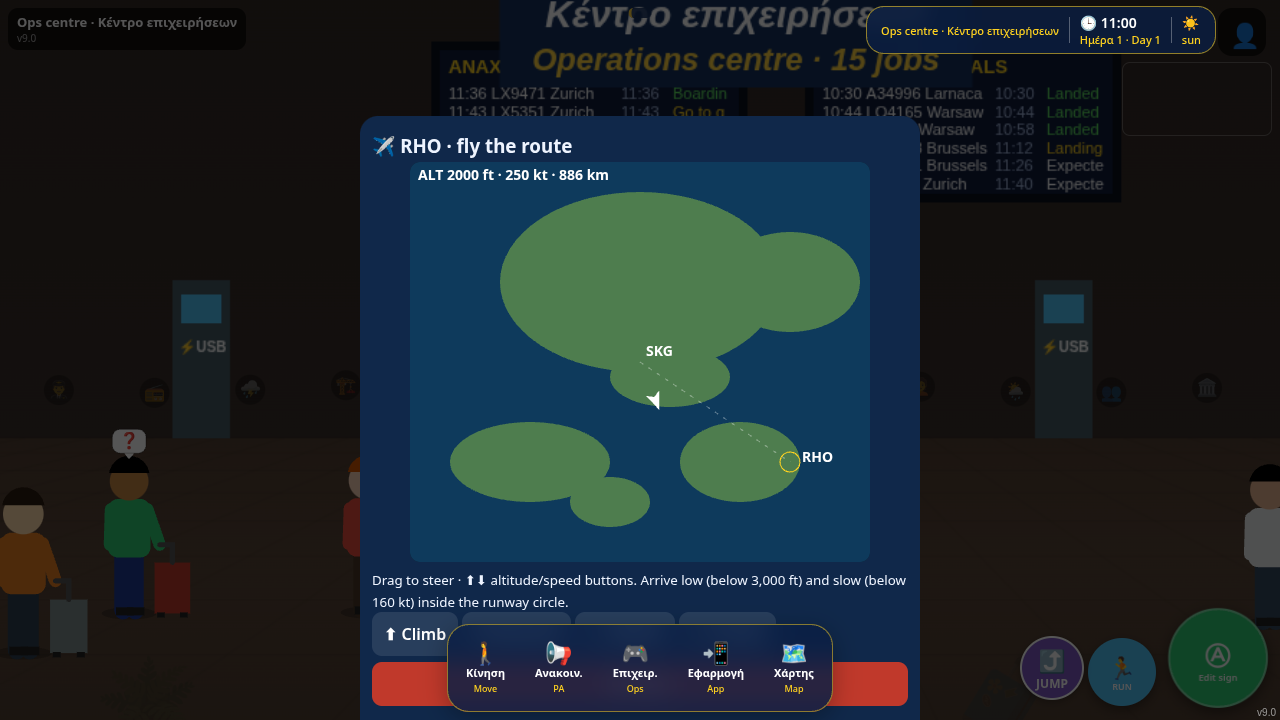
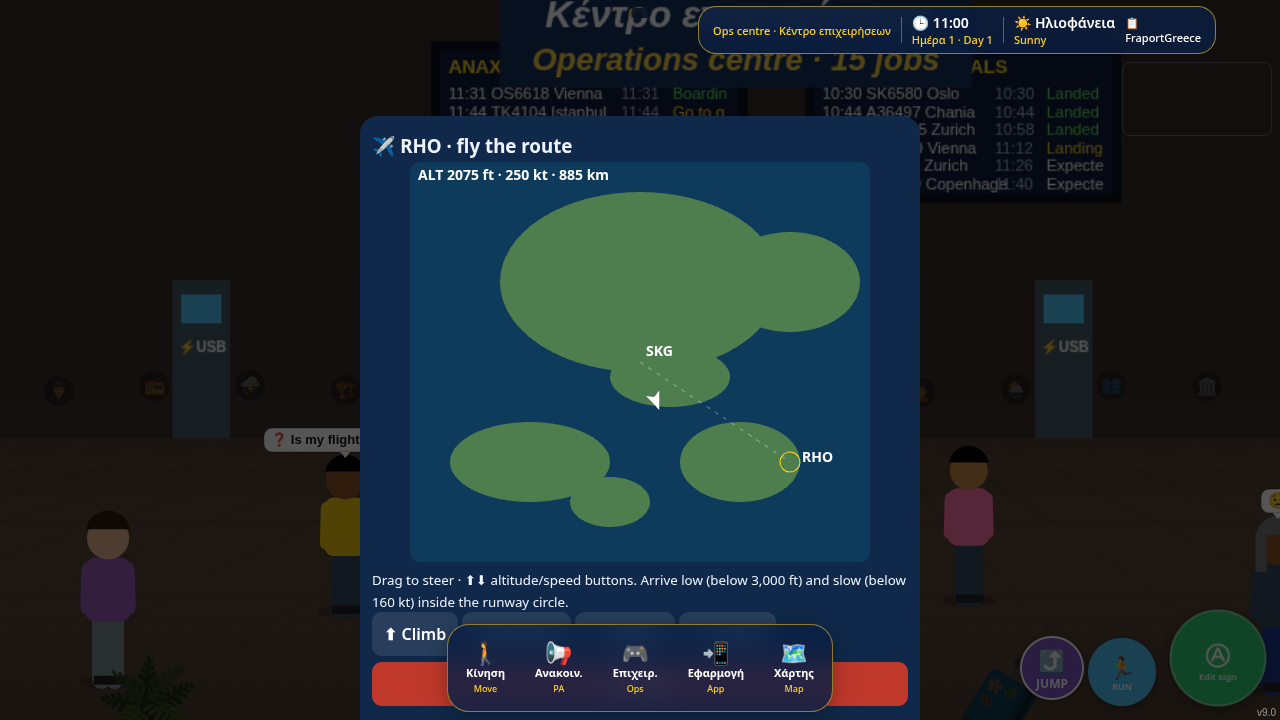
v9.0b1: scope prompt on every announcement, synced all-terminal broadcast, drills & evacuations, UI cleanup

diff --git a/index.html b/index.html
@@ -4229,7 +4229,7 @@ function chime15(tid){const a=ac15();if(!a)return 0;env15(tid);const t=a.current
 function hum15(ms){const a=PA15.ac;if(!a)return;const n=a.createBufferSource(),b=a.createBuffer(1,a.sampleRate,a.sampleRate),d=b.getChannelData(0);for(let i=0;i<d.length;i++)d[i]=(Math.random()*2-1)*.012;n.buffer=b;n.loop=true;const g=a.createGain();g.gain.value=1;n.connect(g);g.connect(PA15.inp);n.start();setTimeout(()=>{g.gain.setTargetAtTime(0,a.currentTime,.4);setTimeout(()=>n.stop(),1500)},ms)}
 function voice15(l){const V=speechSynthesis.getVoices();return V.find(v=>v.lang.replace('_','-').toLowerCase().startsWith(l))||null}
 function say15(txt,lang,tid){return new Promise(res=>{try{if(!window.speechSynthesis)return res();const u=new SpeechSynthesisUtterance(txt);u.lang=lang;const v=voice15(lang.slice(0,2));if(v)u.voice=v;u.rate=.9;u.pitch=.92;u.volume=lvl15(tid).v*(staff15()?.5:1);let done=0;const fin=()=>{if(!done){done=1;res()}};u.onend=fin;u.onerror=fin;setTimeout(fin,1500+txt.length*110);hum15(txt.length*75);speechSynthesis.speak(u)}catch(e){res()}})}
-function sub15(tn,gr,en,note){let b=$('#pa13');if(!b){b=document.createElement('div');b.id='pa13';b.style.cssText='position:fixed;left:50%;bottom:120px;transform:translateX(-50%);max-width:90vw;background:#000c;color:#fff;padding:8px 14px;border-radius:10px;font:600 15px system-ui;z-index:47;text-align:center;pointer-events:none';document.body.appendChild(b)}b.innerHTML=`🔊 <b>${tn}</b>${en?'<br>🇬🇧 '+en:''}${gr?'<br>🇬🇷 '+gr:''}${note?'<br><small>'+note+'</small>':''}`;b.style.display='block';clearTimeout(J12.pt);J12.pt=setTimeout(()=>b.style.display='none',16000)}
+function sub15(tn,gr,en,note){let b=$('#pa13');if(!b){b=document.createElement('div');b.id='pa13';b.style.cssText='position:fixed;left:50%;bottom:120px;transform:translateX(-50%);max-width:90vw;background:#000c;color:#fff;padding:8px 14px;border-radius:10px;font:600 15px system-ui;z-index:47;text-align:center;pointer-events:none';document.body.appendChild(b)}b.innerHTML=`🔊 <b>${tn}</b>${gr?'<br>🇬🇷 '+gr:''}${en?'<br>🇬🇧 '+en:''}${note?'<br><small>'+note+'</small>':''}`;b.style.display='block';clearTimeout(J12.pt);J12.pt=setTimeout(()=>b.style.display='none',16000)}
 /* full announcement: chime → English (recording or TTS) → Greek TTS */
 async function annc15(c,en,gr,buf){const tid=c.tid;const hasEl=!!voice15('el');sub15(c.tn,gr,en,hasEl?'':'(no Greek voice on this device · Greek shown as subtitles)');try{speechSynthesis.cancel()}catch(e){}
  const ms=chime15(tid);await new Promise(r=>setTimeout(r,ms||400));env15(tid);
@@ -5202,5 +5202,106 @@ setInterval(()=>{try{sweep25();bar25();if(!W3.on&&$('#ui25mm'))$('#ui25mm').styl
 {let t=0;const _u=w3Update;w3Update=function(dt){const r=_u.apply(this,arguments);t-=dt||0;if(t<=0){t=.15;try{mm25()}catch(e){}}return r}}
 // smooth area/modal transitions (off on e-ink)
 (function(){const s=document.createElement('style');s.textContent='body:not(.eink) #modal .box,body:not(.eink) #modal>div{animation:ui25in .22s ease-out}@keyframes ui25in{from{opacity:0;transform:translateY(10px) scale(.98)}to{opacity:1;transform:none}}';document.head.appendChild(s)})();
+
+/* v9.0 Part B1: scope prompt on EVERY announcement · synced all-terminals broadcast · drills & evacuations · UI cleanup */
+// ---------- UI cleanup ----------
+(function(){const s=document.createElement('style');s.textContent=`.wtop .wtl{display:none!important}#wMap.ui26h,.ui26h{display:none!important}
+#ui25bar .tk{max-width:260px;overflow:hidden;text-overflow:ellipsis;font-size:11px;color:#fff;font-weight:500}#ui25bar .tk b{color:#ffd21f}
+.ui25fly button .l26{display:block!important;font:600 10px system-ui!important;margin-top:3px;color:#ffd21f!important;white-space:nowrap}.ui25fly button .l26 i{display:block!important;font-style:normal;color:#fff!important;font-size:9px!important}
+body.eink .ui25fly button .l26,body.eink .ui25fly button .l26 i{color:#000!important}
+#sc26{position:fixed;inset:0;z-index:300;background:rgba(10,31,68,.55);display:flex;align-items:center;justify-content:center}
+#sc26 .bx{background:#fff;border-radius:22px;padding:18px;max-width:420px;width:92vw;border:3px solid #ffd21f;font:600 14px system-ui;color:#0a1f44;text-align:center}
+#sc26 button{display:block;width:100%;min-height:62px;margin:8px 0;border-radius:16px;border:2px solid #0a1f44;font:700 16px system-ui;background:#0a1f44;color:#fff}#sc26 button small{display:block;font-weight:500;color:#ffd21f}
+#sc26 button.t{background:#fff;color:#0a1f44}#sc26 button.t small{color:#8a6d00}#sc26 button.x{min-height:44px;background:#eceff1;color:#333;border-color:#ccc}
+body.eink #sc26{background:rgba(255,255,255,.6)}body.eink #sc26 .bx,body.eink #sc26 button{border:3px solid #000;color:#000;background:#fff}body.eink #sc26 button small{color:#000}
+#ev26{position:fixed;inset:0;pointer-events:none;z-index:40;box-shadow:inset 0 0 120px 30px rgba(229,57,53,.0);transition:box-shadow .3s}#ev26.on{animation:ev26 .8s infinite}@keyframes ev26{50%{box-shadow:inset 0 0 140px 40px rgba(229,57,53,.75)}}
+body.eink #ev26.on{animation:none;box-shadow:inset 0 0 0 12px #000}
+#evp26{position:fixed;left:50%;top:84px;transform:translateX(-50%);z-index:58;background:#0b6b2f;color:#fff;border:3px solid #fff;border-radius:16px;padding:8px 14px;font:700 14px system-ui;text-align:center;pointer-events:auto}#evp26 .r{background:#c62828}#evp26 button{min-height:48px;margin:6px 4px 0;border-radius:12px;border:0;padding:0 14px;font:700 13px system-ui}
+body.eink #evp26{background:#fff;color:#000;border:4px solid #000}`;document.head.appendChild(s)})();
+const LB26={w6ride:['Βόλτα','Ride'],w6fp:['Θέα','View'],bWalk:['Περπάτημα','Walk'],bSpeed:['Ταχύτητα','Speed'],w6sh:['Βάρδια','Shift'],pa16:['Αίθουσα PA','PA room'],bAnn:['Ανακοινώσεις','Auto PA'],w6rad:['Ραδιόφωνο','Radio'],bSnd:['Ήχος','Sound'],ops23:['Κέντρο','Ops'],w7hub:['Παιχνίδια','Fun'],hb12:['Εργαλεία','Tools'],brd10:['Πίνακες','Boards'],tm11:['Ώρα','Time'],spt23:['Φωτογραφία','Spotting'],ph17:['SKG app','SKG app'],wPhone:['Τηλέφωνο','Phone'],w6set:['Ρυθμίσεις','Settings'],bInk:['E-ink','E-ink'],w3b:['2D/3D','2D/3D'],w7ft:['Ταξίδι','Travel'],map25:['Χάρτης','Map'],me26:['Προφίλ','Profile'],evb26:['Εκκένωση','Evacuation'],bc26:['Όλοι PA','Broadcast']};
+function lab26(){document.querySelectorAll('.ui25fly button').forEach(b=>{const id=b.id;const L=LB26[id];if(!L||b.querySelector('.l26'))return;const s=document.createElement('span');s.className='l26';s.innerHTML=L[0]+'<i>'+L[1]+'</i>';b.appendChild(s)})}
+function bar26(){const b=$('#ui25bar');if(!b)return;
+ // weather in Greek + English
+ const k=(G.wx&&G.wx.k)||'sun',w=(typeof WX!=='undefined'&&WX[k])||['🌤',k,k];
+ // fold old info card + task pill into the bar
+ const inf=($('#wInfo')||{}).textContent||'';let task='';document.querySelectorAll('body>*,#walk>*,#walk>*>*').forEach(e=>{if(e.closest('#ui25bar,#ui25dock,.ui25fly,#evp26,#sc26,#modal,.wtop,#walk>.wbr'))return;const s=getComputedStyle(e);if(s.position!=='fixed'&&s.position!=='absolute')return;const r=e.getBoundingClientRect();if(!r.width||r.y>100||r.height>70||r.width>innerWidth*.6)return;const cx=r.x+r.width/2;if(cx<innerWidth*.3||cx>innerWidth*.7)return;const t=(e.textContent||'').trim();if(!t||e.querySelector('canvas'))return;if(!task||t.length>task.length)task=t;e.classList.add('ui26h')});
+ if(task)b.dataset.task=task;const tk=b.dataset.task||'';
+ let x=b.querySelector('.tk');if(!x){x=document.createElement('div');x.className='tk';b.appendChild(x)}const h=`<b>📋 ${inf.replace(/\s+/g,' ').slice(0,40)}</b><br>${tk.slice(0,70)}`;if(x._h!==h){x.innerHTML=h;x._h=h}
+ const wd=b.children[4];if(wd&&!wd.dataset.w26||wd&&wd.dataset.w26!==k){wd.dataset.w26=k;wd.innerHTML=`<div class="gr">${w[0]} ${w[2]}</div><div class="en">${w[1]}</div>`}
+ const mp=$('#wMap');if(mp)mp.classList.toggle('ui26h',!!W3.on)}
+// 👤 into dock (App) + new buttons
+function dock26(){const f=$('#ui25f_app');if(f&&!$('#me26')){const me=[...document.querySelectorAll('.wtop button')].find(b=>b.textContent.trim()==='👤');if(me){me.id='me26';f.appendChild(me)}}
+ const o=$('#ui25f_ops');if(o&&!$('#evb26')){const b=document.createElement('button');b.id='evb26';b.textContent='🚨';b.onclick=()=>{ui25tog(null);evMenu26()};o.appendChild(b)}
+ const p=$('#ui25f_pa');if(p&&!$('#bc26')){const b=document.createElement('button');b.id='bc26';b.textContent='📡';b.onclick=()=>{ui25tog(null);pa16Open26()};p.appendChild(b)}lab26()}
+function pa16Open26(){const b=$('#pa16');if(b)b.click();else if(typeof paPick16==='function')paPick16()}
+setInterval(()=>{try{dock26();bar26()}catch(e){}},700);
+// ---------- scope prompt (asked EVERY time, no default) ----------
+function tname26(t){return t===8?'Terminal 1A':t===0||t==null?'Makedonia':'Terminal '+t}
+function allT26(){return [0,...TERMS.map(T=>T.id),...XT22.map(X=>X.id)].filter((v,i,a)=>a.indexOf(v)===i)}
+function scope26(tid,what){return new Promise(res=>{const o=$('#sc26');if(o)o.remove();const d=document.createElement('div');d.id='sc26';
+ d.innerHTML=`<div class="bx"><div>📢 ${what||'Ανακοίνωση · Announcement'}</div><div style="font-weight:500;margin:4px 0 6px">Πού να μεταδοθεί; · Where should it play?</div>
+ <button id="sc26a">📡 Όλοι οι τερματικοί<small>All terminals · ${allT26().length} terminals, in sync</small></button>
+ <button class="t" id="sc26t">📍 Μόνο αυτός ο τερματικός<small>Only this terminal · ${tname26(tid)}</small></button>
+ <button class="x" id="sc26x">Ακύρωση · Cancel</button></div>`;document.body.appendChild(d);
+ const fin=v=>{d.remove();res(v)};$('#sc26a').onclick=()=>{unl24();fin('all')};$('#sc26t').onclick=()=>{unl24();fin('one')};$('#sc26x').onclick=()=>fin(null)})}
+// wrap the announcement player: ask scope, then play once on ONE shared clock for every chosen terminal
+const BC26={on:0};
+{const _a26=annc22;annc22=async function(c,en,gr,buf,note,src){const tid=c&&c.tid!=null?c.tid:curT16();const sc=await scope26(tid,(src&&src.alarm)?'🚨 Συναγερμός · Alarm':'Ανακοίνωση · Announcement');
+ if(!sc){plog22({step:'Cancelled (no scope chosen)',tr:en,gr,ok:false});return}
+ const list=sc==='all'?allT26():[tid];const t0=performance.now(),wall=new Date();BC26.on=1;BC26.list=list;
+ plog22({step:sc==='all'?'📡 ALL terminals · synced start':'📍 Only '+tname26(tid),tr:en,gr,note:'Terminals: '+list.map(tname26).join(', ')+' · shared clock start '+wall.toTimeString().slice(0,8)+'.'+String(wall.getMilliseconds()).padStart(3,'0'),ok:true});
+ if(sc==='all')toast('📡 Broadcasting in all '+list.length+' terminals · same audio, same clock');
+ try{await _a26.call(this,c,en,gr,buf,note,src)}finally{BC26.on=0;const ms=Math.round(performance.now()-t0);plog22({step:sc==='all'?'📡 ALL terminals · synced end':'📍 end',note:list.length+' terminal(s) started together and ended together after '+(ms/1000).toFixed(1)+'s (one shared audio buffer/clock)',ok:true})}}}
+annc18=function(c,en,gr,buf,note){annc22(c,en,gr,buf,note);return Promise.resolve()};
+// ---------- drills & evacuations ----------
+const EV26={on:0,crowds:[],fx:[]};
+{const _c26=crowd7;crowd7=function(par,list,seated){const r=_c26.apply(this,arguments);if(r&&r.b){const o=list.map(p=>p.slice());r.orig=o;r.par=par;EV26.crowds.push(r)}return r}}
+function tidAt26(x){const X=[...XT22,...TERMS].find(T=>T.x0!=null&&x>=T.x0-5&&x<=T.x1+5);return X?X.id:0}
+function siren26(on){const a=ac15();if(!a)return;if(!on){if(EV26.sn){try{EV26.sn.o.stop();EV26.sn.l.stop()}catch(e){}EV26.sn=null}return}if(EV26.sn)return;const o=a.createOscillator(),l=a.createOscillator(),lg=a.createGain(),g=a.createGain();o.type='sawtooth';o.frequency.value=700;l.frequency.value=.45;lg.gain.value=260;l.connect(lg);lg.connect(o.frequency);g.gain.value=G.sound===false?0:.07;const f=a.createBiquadFilter();f.type='lowpass';f.frequency.value=2200;o.connect(f);f.connect(g);g.connect(a.destination);o.start();l.start();EV26.sn={o,l}}
+function evTex26(){if(EV26.tx)return EV26.tx;EV26.tx=ctex(512,128,g=>{g.fillStyle='#0b8f3a';g.fillRect(0,0,512,128);g.fillStyle='#fff';g.fillRect(14,22,70,84);g.fillStyle='#0b8f3a';g.fillRect(36,40,26,66);g.fillStyle='#fff';g.font='bold 40px system-ui';g.textAlign='left';g.fillText('ΕΞΟΔΟΣ ➜',100,62);g.font='bold 30px system-ui';g.fillText('EMERGENCY EXIT',100,104)});EV26.ar=ctex(128,128,g=>{g.fillStyle='#0b8f3a';g.fillRect(0,0,128,128);g.fillStyle='#fff';g.beginPath();g.moveTo(64,10);g.lineTo(118,70);g.lineTo(84,70);g.lineTo(84,118);g.lineTo(44,118);g.lineTo(44,70);g.lineTo(10,70);g.fill()});return EV26.tx}
+function evFx3D26(list){if(!W3.on||typeof SCN==='undefined'||!SCN)return;evTex26();const T3_=T3;const grp=new T3_.Group();grp.name='ev26';
+ const boxes=[];const sm=new T3_.MeshBasicMaterial({map:EV26.tx,toneMapped:false});const am=new T3_.MeshBasicMaterial({map:EV26.ar,toneMapped:false,transparent:true,opacity:.9});const red=new T3_.MeshBasicMaterial({color:'#ff1744',toneMapped:false});EV26.red=red;
+ const sg=new T3_.PlaneGeometry(3.2,.8),ag=new T3_.PlaneGeometry(1.6,1.6),bg=new T3_.BoxGeometry(.5,.5,.5);EV26.geo=[sg,ag,bg];EV26.mat=[sm,am,red];
+ const B=[...XT22,...TERMS].filter(T=>list.includes(T.id)&&T.x0!=null);let ns=0,na=0,nb=0;const S_=[],A_=[],R_=[];
+ B.forEach(T=>{const z0=T.z0!=null?T.z0:-40,z1=T.z1!=null?T.z1:60;for(let x=T.x0+10;x<T.x1-5;x+=24){S_.push([x,4.2,z1-1.2,Math.PI]);R_.push([x,7.5,(z0+z1)/2]);for(let z=z0+10;z<z1-6;z+=12)A_.push([x,.06,z])}});
+ if(list.includes(0)){for(let x=-60;x<=200;x+=24){S_.push([x,4.2,58,Math.PI]);R_.push([x,7.5,20]);for(let z=-20;z<50;z+=12)A_.push([x,.06,z])}}
+ const M=new T3_.Matrix4(),q=new T3_.Quaternion(),e=new T3_.Euler(),P=new T3_.Vector3(),Sc=new T3_.Vector3(1,1,1);
+ const im=(g,m,L,rx)=>{const I=new T3_.InstancedMesh(g,m,Math.max(1,L.length));L.forEach((p,i)=>{q.setFromEuler(e.set(rx||0,p[3]||0,0));M.compose(P.set(p[0],p[1],p[2]),q,Sc);I.setMatrixAt(i,M)});I.count=L.length;I.userData.ds23=1;I.frustumCulled=false;grp.add(I);return I};
+ im(sg,sm,S_);im(ag,am,A_,-Math.PI/2);im(bg,red,R_);SCN.add(grp);EV26.g3=grp}
+function evFxOff26(){if(EV26.g3){SCN.remove(EV26.g3);EV26.g3=null;(EV26.geo||[]).forEach(g=>g.dispose());(EV26.mat||[]).forEach(m=>m.dispose());EV26.geo=EV26.mat=null}}
+const EVTXT26={drill:['Προσοχή παρακαλώ. Αυτή είναι άσκηση εκκένωσης. Παρακαλούμε αφήστε τις αποσκευές σας, ακολουθήστε τις πράσινες πινακίδες εξόδου και τις οδηγίες του προσωπικού προς το σημείο συγκέντρωσης.','Attention please. This is an evacuation drill. Please leave your luggage, follow the green exit signs and the staff instructions to the assembly point.'],
+ real:['Προσοχή, προσοχή. Εκκένωση έκτακτης ανάγκης. Παρακαλούμε απομακρυνθείτε αμέσως από τον τερματικό σταθμό από τις πλησιέστερες εξόδους κινδύνου. Μη χρησιμοποιείτε τους ανελκυστήρες.','Attention, attention. Emergency evacuation. Please leave the terminal immediately by the nearest emergency exit. Do not use the lifts.'],
+ clear:['Λήξη συναγερμού. Μπορείτε να επιστρέψετε με ασφάλεια στον τερματικό σταθμό. Ευχαριστούμε για τη συνεργασία σας.','All clear. You may now safely return to the terminal. Thank you for your cooperation.']};
+// alarm PA: Greek FIRST, then English
+async function alarmPA26(kind,tid,scope){const [gr,en]=EVTXT26[kind];sub15&&sub15(tname26(tid),gr,en,'🚨 '+(scope==='all'?'ALL terminals':tname26(tid)));const t0=new Date();plog22({step:'🚨 '+kind.toUpperCase()+' alarm · '+(scope==='all'?'📡 ALL terminals (synced)':'📍 '+tname26(tid)),tr:en,gr,note:'Greek first, then English · start '+t0.toTimeString().slice(0,8),ok:true});
+ unlock17();await acUp22();chime15(tid);await new Promise(r=>setTimeout(r,900));const v=await grSpeak24(gr,tid);await new Promise(r=>setTimeout(r,400));const r=await say22(en,'en-GB',1);plog22({step:'🚨 alarm PA done',note:'GR: '+(v||'failed')+' · EN: '+(r.ok?'ok':'failed'),ok:!!v})}
+function evMenu26(){MD4('🚨 Άσκηση / Εκκένωση · Drill / Evacuation',`<p>Choose the type. You'll then be asked <b>All terminals</b> or <b>Only this terminal</b>.</p><div class="ft7"><button class="y" onclick="close_();evStart26('drill')">🟡 Άσκηση · DRILL</button><button class="r" onclick="close_();evStart26('real')">🔴 Πραγματική · REAL</button>${EV26.on?'<button class="ghost" onclick="close_();evClear26()">✅ Λήξη · All clear</button>':''}</div>`)}
+async function evStart26(kind){const A_=WA[W.area]||{};const tid=W3.on?curT16():(A_.tn||A_.tid||(/^t7/.test(W.area)?7:/^t8/.test(W.area)?8:0));const sc=await scope26(tid,'🚨 '+(kind==='real'?'Εκκένωση · REAL evacuation':'Άσκηση · Evacuation DRILL'));if(!sc)return toast('Cancelled');
+ const list=sc==='all'?allT26():[tid];Object.assign(EV26,{on:1,kind,list,sc,t:0,out:0,tot:0,tid});
+ $('#ev26')||document.body.insertAdjacentHTML('beforeend','<div id="ev26"></div>');$('#ev26').classList.add('on');siren26(1);evFx3D26(list);
+ // 3D crowds + walking NPCs head for the exits / assembly point (landside, +z)
+ EV26.crowds.forEach(c=>{const t=tidAt26(c.orig[0]?c.orig[0][0]:0);c.ev=list.includes(t);if(!c.ev)return;let zm=-1e9;c.orig.forEach(p=>zm=Math.max(zm,p[2]));c.az=zm+28;c.pos=c.orig.map(p=>p.slice());EV26.tot+=c.orig.length});
+ (W3.npcs||[]).forEach(n=>{if(list.includes(tidAt26(n.x||0))){n.ev26={tx:n.tx,tz:n.tz};n.tx=(n.x||0)+rnd(-6,6);n.tz=(n.z||0)+80;EV26.tot++}});
+ EV26.tot=Math.max(EV26.tot,list.length*180);evPanel26();cnt4('evac_'+kind);alarmPA26(kind,tid,sc)}
+function evPanel26(){let p=$('#evp26');if(!p){p=document.createElement('div');p.id='evp26';document.body.appendChild(p)}if(!EV26.on){p.remove();return}const pc=Math.min(100,Math.round(EV26.out/EV26.tot*100));
+ p.innerHTML=`<div class="${EV26.kind==='real'?'r':''}" style="border-radius:10px;padding:2px 8px">🚨 ${EV26.kind==='real'?'ΕΚΚΕΝΩΣΗ · EVACUATION':'ΑΣΚΗΣΗ · DRILL'} · ${EV26.sc==='all'?'📡 Όλοι · All terminals':'📍 '+tname26(EV26.tid)}</div>🚪 Εκκενώθηκαν · Evacuated ${pc}% · ⏱ ${Math.round(EV26.t)}s<br>${W3.on?'':'<button onclick="evGuide26()">🙋 Καθοδήγηση · Guide passengers</button>'}<button onclick="evClear26()" ${pc<100&&EV26.kind==='real'?'disabled title="Wait until everyone is out"':''}>✅ Λήξη · All clear</button>`}
+function evGuide26(){EV26.out=Math.min(EV26.tot,EV26.out+EV26.tot*.12);toast('🙋 ➜ ΕΞΟΔΟΣ / EXIT · passengers follow you to the assembly point');evPanel26()}
+function evTick26(dt){if(!EV26.on)return;EV26.t+=dt;EV26.ft=(EV26.ft||0)-dt;if(EV26.red)EV26.red.color.set(Math.floor(EV26.t*2.5)%2?'#ff1744':'#4a0000');
+ if(EV26.ft<=0){EV26.ft=.12;let out=0;const M=new T3.Matrix4(),q=new T3.Quaternion(),e=new T3.Euler(),P=new T3.Vector3(),S=new T3.Vector3(1,1,1);
+  EV26.crowds.forEach(c=>{if(!c.ev||!c.pos)return;c.pos.forEach((p,i)=>{const dz=c.az-p[2];if(dz>.5){p[2]+=Math.min(dz,(3.2+(i%5)*.4)*.12*(EV26.kind==='real'?1.3:1));p[3]=0}if(dz<28)out++;q.setFromEuler(e.set(0,p[3],0));M.compose(P.set(p[0],0,p[2]),q,S);c.b.setMatrixAt(i,M);M.compose(P.set(p[0],1.72,p[2]),q,S);c.h.setMatrixAt(i,M)});c.b.instanceMatrix.needsUpdate=c.h.instanceMatrix.needsUpdate=true});
+  if(W3.on)EV26.out=Math.max(EV26.out,out+Math.min(EV26.t/40,1)*(EV26.tot-EV26.crowds.reduce((n,c)=>n+(c.ev?c.orig.length:0),0)));else EV26.out=Math.min(EV26.tot,EV26.out+EV26.tot*dt*.012);
+  evPanel26();if(EV26.kind==='drill'&&EV26.out>=EV26.tot&&!EV26.done){EV26.done=1;toast('✅ Drill: everyone out in '+Math.round(EV26.t)+'s · press All clear')}}}
+async function evClear26(){if(!EV26.on)return;const sc=await scope26(EV26.tid,'✅ Λήξη συναγερμού · All clear');if(!sc)return;siren26(0);
+ EV26.crowds.forEach(c=>{if(!c.ev)return;const M=new T3.Matrix4(),q=new T3.Quaternion(),e=new T3.Euler(),P=new T3.Vector3(),S=new T3.Vector3();c.orig.forEach((p,i)=>{const s=p[4]||1;q.setFromEuler(e.set(0,p[3],0));M.compose(P.set(p[0],p[1],p[2]),q,S.set(s,s,s));c.b.setMatrixAt(i,M);M.compose(P.set(p[0],p[1]+(c.b.geometry===G6.ps7?1.38:1.72)*s,p[2]),q,S);c.h.setMatrixAt(i,M)});c.b.instanceMatrix.needsUpdate=c.h.instanceMatrix.needsUpdate=true;c.ev=0;c.pos=null});
+ (W3.npcs||[]).forEach(n=>{if(n.ev26){n.tx=n.ev26.tx;n.tz=n.ev26.tz;n.ev26=null}});const r=Math.max(0,100-Math.round(EV26.t));if(EV26.kind==='drill'){G.money+=r*500;rew4&&rew4(r*10,4,'🚨 Drill complete · '+Math.round(EV26.t)+'s')}
+ EV26.on=0;EV26.done=0;evPanel26();$('#ev26')&&$('#ev26').classList.remove('on');evFxOff26();alarmPA26('clear',EV26.tid,sc)}
+{const _u=w3Update;w3Update=function(dt){const r=_u.apply(this,arguments);try{evTick26(dt||0)}catch(e){}return r}}
+setInterval(()=>{if(EV26.on&&!W3.on)try{evTick26(.5)}catch(e){}},500);
+// 2D: exit arrows in every area during an evacuation
+setInterval(()=>{let a=$('#ex26');if(EV26.on&&!W3.on){const A=WA[W.area]||{};const inT=EV26.list.includes(A.tn||0)||EV26.sc==='all';if(!a){a=document.createElement('div');a.id='ex26';a.style.cssText='position:fixed;left:12px;top:50%;z-index:57;background:#0b8f3a;color:#fff;font:800 20px system-ui;padding:10px 14px;border-radius:12px;border:3px solid #fff;pointer-events:none';document.body.appendChild(a)}a.style.display=inT?'':'none';a.innerHTML='🏃 ΕΞΟΔΟΣ ΚΙΝΔΥΝΟΥ<br><small style="font-size:13px">◀ EMERGENCY EXIT · '+(A.Lt||'exit')+'</small>'}else if(a)a.remove()},600);
+// entry points: Ops centre, PA room modal, SKG app
+OPS23.push(['🚨 Drill / evacuation','close_();evMenu26()'],['📡 Broadcast · all terminals','close_();pa16Open26()']);
+{const _p26=pa13;pa13=function(it){_p26.apply(this,arguments);const m=$('#modal .ft7');if(m)m.insertAdjacentHTML('afterbegin','<button class="r" onclick="close_();evMenu26()">🚨 Drill / evacuation</button>')}}
+NEW4.push(['🚨','v9.0 B1: every announcement asks All terminals / Only this terminal · synced broadcast · drills & real evacuations with sirens, lights, exit signs, Greek-first alarm PA']);
 
 </script></body></html>

diff --git a/PROGRESS.md b/PROGRESS.md
@@ -176,3 +176,13 @@ Greek translates actual transcript (fuzzy script match ≥ threshold, protected 
 - Navy, white and gold glass UI in 2D and 3D. A bottom dock groups everything into 5 categories (Κίνηση/Move, Ανακοιν./PA, Επιχειρ./Ops, Εφαρμογή/App, Χάρτης/Map). Each one opens a flyout of large buttons (60px or more). RUN, JUMP and Action stay in the right-hand cluster.
 - Top status bar (Greek above English): terminal or area, time, day, weather. In 3D, a mini-map with a compass rotates with the camera (T7 in gold).
 - Smooth modal and flyout transitions. E-ink: high-contrast black and white, no blur, no animation, no mini-map.
+
+## v9.0 Part B1 – scope on every announcement, synced broadcast, drills & evacuations (LIVE)
+- Every announcement, whether live, typed, script or alarm, asks "📡 All terminals" or "📍 Only this terminal". There is no default, and Cancel stops it. "All" plays one shared audio buffer on one clock for all 9 terminals, and the PA log records the synced start, the end, the terminal list and the duration.
+- Drills and REAL evacuations: from Ops (🚨 in the Ops flyout), the Ops centre, and the PA room. The scope is asked each time, including for the all-clear. Effects:
+  - Siren, red screen pulse, flashing red beacons, green ΕΞΟΔΟΣ/EMERGENCY EXIT signs and floor arrows (3D).
+  - Crowds walk out to the landside assembly points, with an evacuated % and a timer.
+  - Alarm PA in Greek first, then English.
+  - All clear restores everything. Drills are scored.
+  - 2D: an exit arrow banner, a "Guide passengers" action and the same panel.
+- UI: the old info card and task pill are folded into the status bar. 👤 moved to the App flyout, flyout buttons have Greek and English labels, weather is shown in Greek and English, the old mini-map is hidden in 3D, and PA subtitles show Greek above English.
